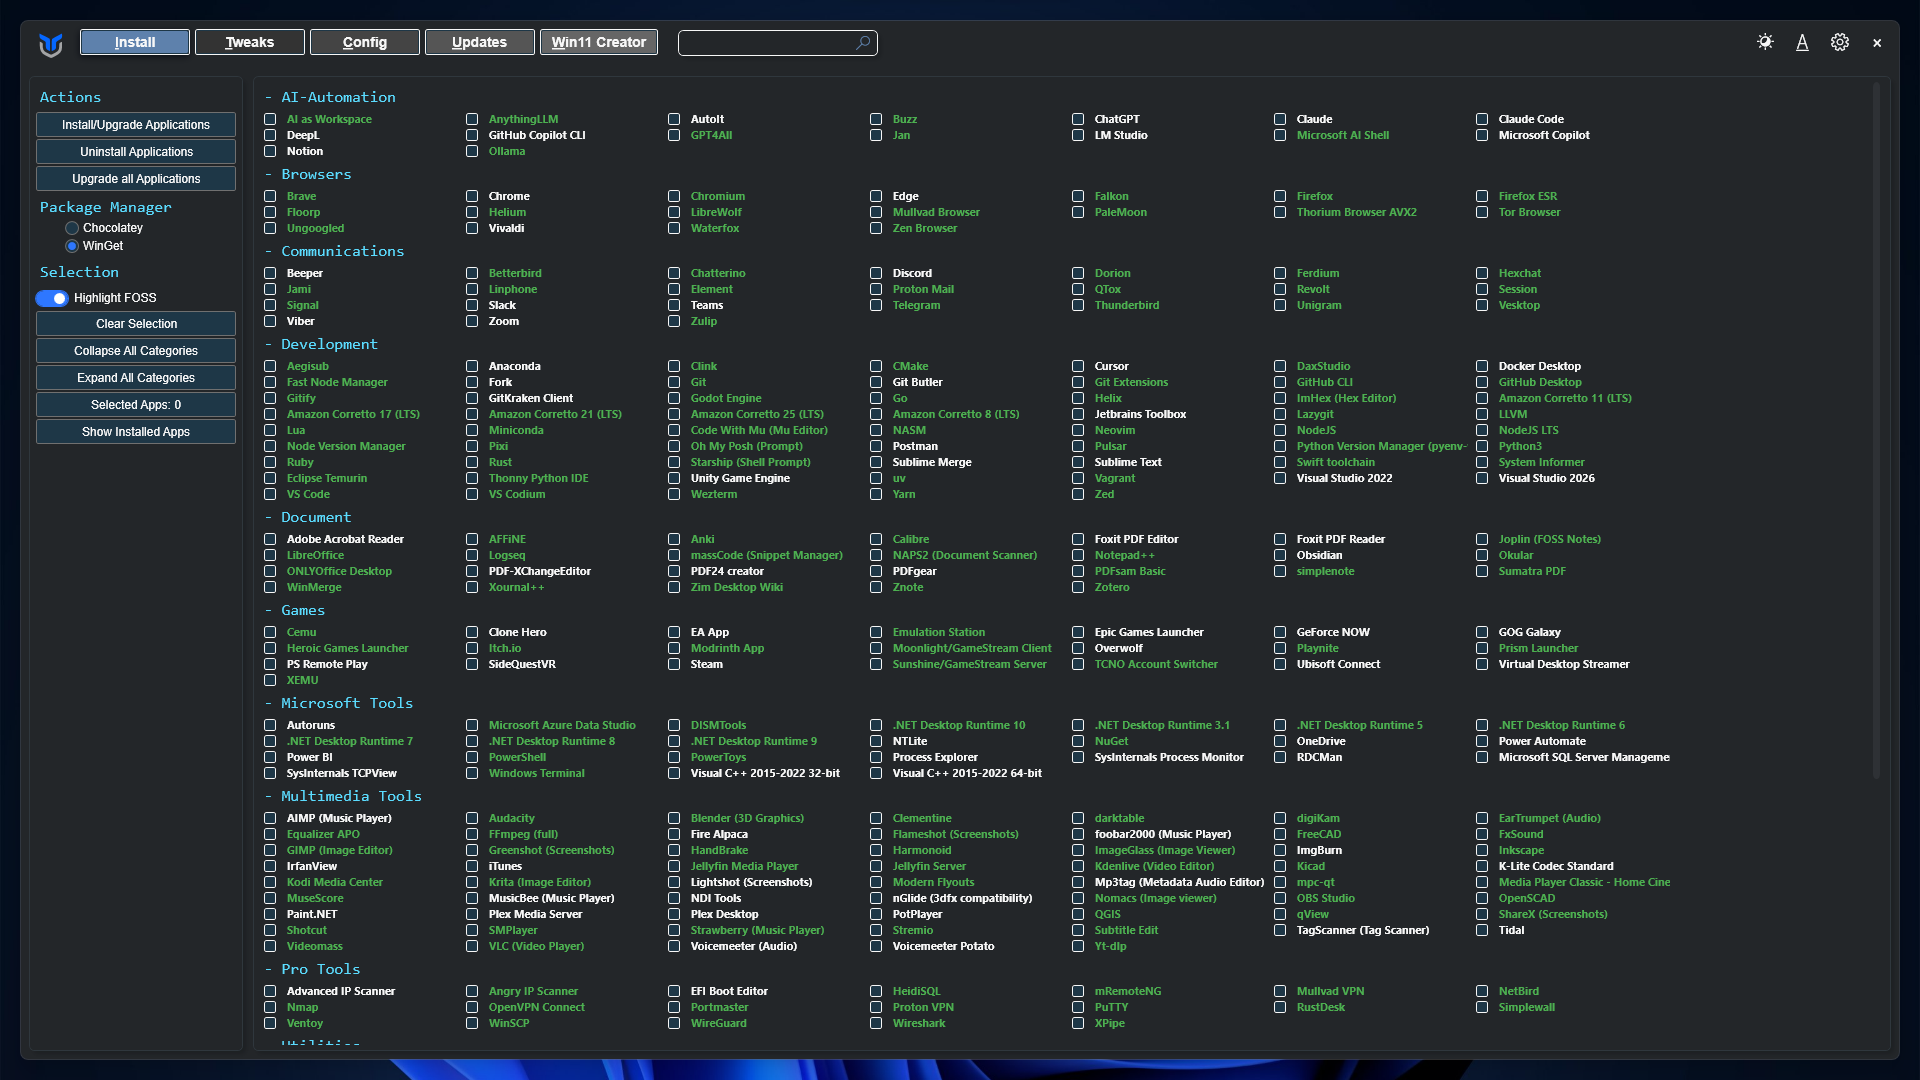
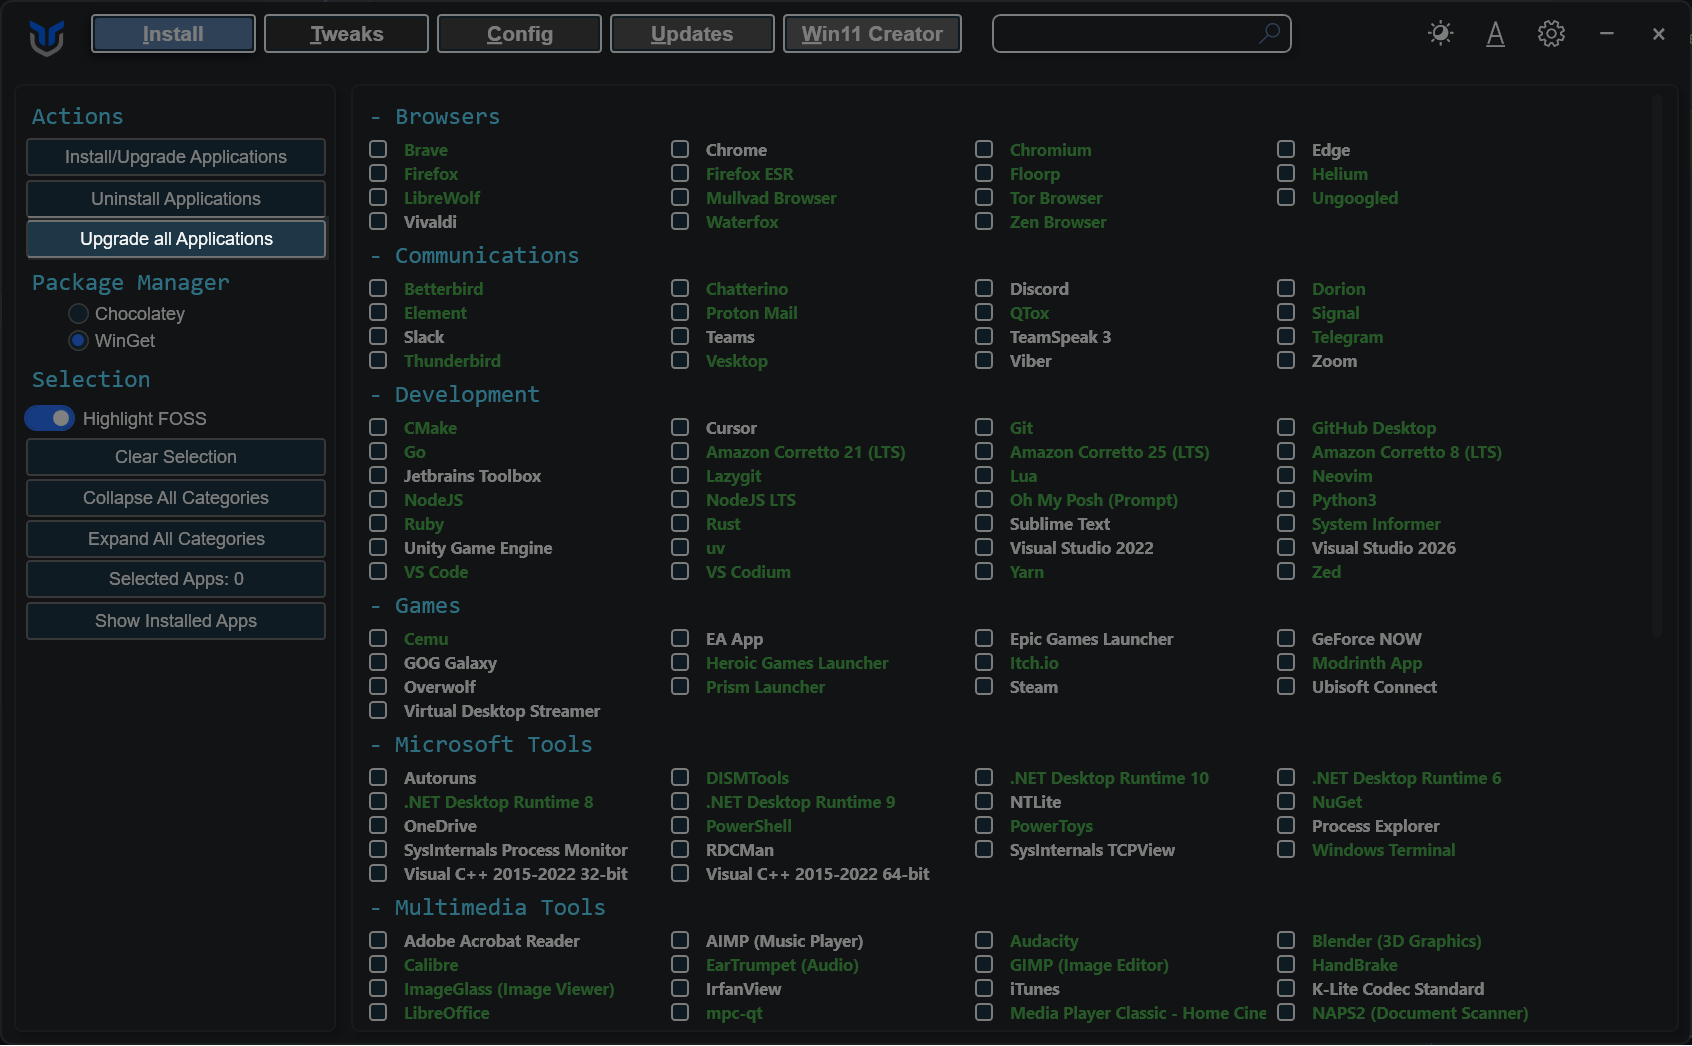
updated the apps page and pics

diff --git a/docs/content/userguide/application/_index.md b/docs/content/userguide/application/_index.md
@@ -12,30 +12,38 @@ next: /userguide/tweaks/
         * For programs not currently installed, this action will install them.
         * For programs already installed, this action will update them to the latest version.
     * Click the `Install/Upgrade Selected` button to start the installation or upgrade process.
+
+    {{< image src="images/Install/Installation" alt="Install or upgrade selected applications" >}}
   {{< /tab >}}
 
   {{< tab name="Upgrade All" >}}
     * Simply press the `Upgrade All` button.
     * This will upgrade all applicable programs that are installed without the need for individual selection.
+
+    {{< image src="images/Install/install-apps" alt="Upgrade all applications" >}}
   {{< /tab >}}
 
   {{< tab name="Uninstall" >}}
     * Select the programs you wish to uninstall.
     * Click the `Uninstall Selected` button to remove the selected programs.
+
+    {{< image src="images/Install/uninstall-apps" alt="Uninstall selected applications" >}}
   {{< /tab >}}
 
   {{< tab name="Get Installed" >}}
     * Click the `Show Installed Apps` button.
     * This scans for and selects installed applications supported by WinGet.
+
+    {{< image src="images/Install/show-installed-apps" alt="Show installed apps" >}}
   {{< /tab >}}
 
   {{< tab name="Clear Selection" >}}
     * Click the `Clear Selection` button.
     * This will unselect all checked programs.
+
+    {{< image src="images/Install/clear-selection-apps" alt="Clear app selections" >}}
   {{< /tab >}}
 {{< /tabs >}}
-
-{{< image src="images/Install-Tab" alt="Install Image" >}}
 
 > [!TIP]
 > If you have trouble finding an application, press `Ctrl + F` and search for its name. The list filters as you type.